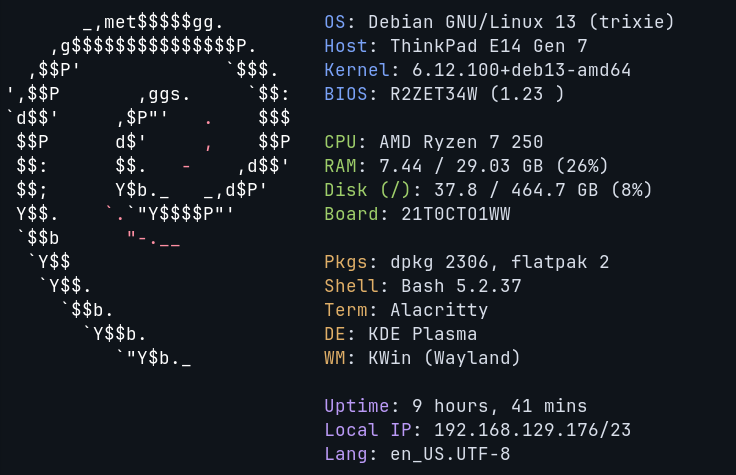
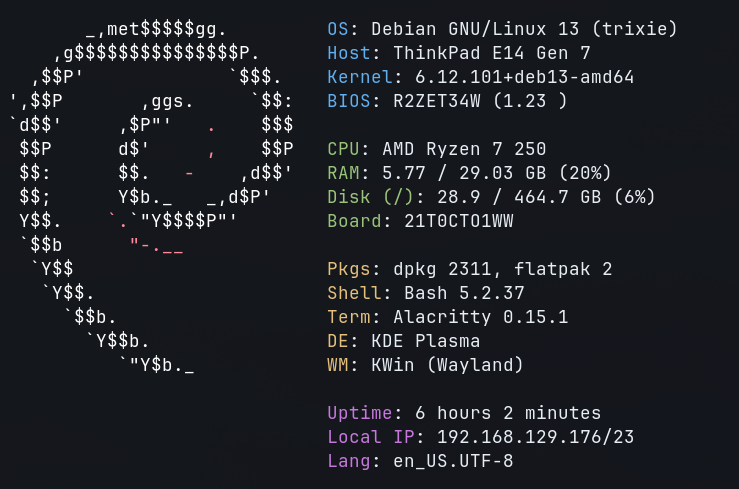
Improved terminal module and small changes

diff --git a/internal/modules/terminal.go b/internal/modules/terminal.go
@@ -2,6 +2,7 @@ package modules
 
 import (
 	"os"
+	"strconv"
 	"strings"
 )
 
@@ -15,6 +16,79 @@ var detectors = []terminalDetector{
 	{"GNOME_TERMINAL_SCREEN", "GNOME Terminal"},
 	{"KITTY_PID", "Kitty"},
 	{"GHOSTTY_RESOURCES_DIR", "Ghostty"},
+	{"KONSOLE_VERSION", "Konsole"},
+	{"TILIX_ID", "Tilix"},
+	{"TERMINATOR_UUID", "Terminator"},
+}
+
+func processName(pid int) string {
+	data, err := os.ReadFile("/proc/" + strconv.Itoa(pid) + "/comm")
+	if err != nil {
+		return ""
+	}
+
+	return strings.TrimSpace(string(data))
+}
+
+func parentPID(pid int) int {
+	data, err := os.ReadFile("/proc/" + strconv.Itoa(pid) + "/stat")
+	if err != nil {
+		return 0
+	}
+
+	line := string(data)
+
+	end := strings.LastIndex(line, ")")
+	if end == -1 || end+2 >= len(line) {
+		return 0
+	}
+
+	fields := strings.Fields(line[end+2:])
+	if len(fields) < 2 {
+		return 0
+	}
+
+	ppid, err := strconv.Atoi(fields[1])
+	if err != nil {
+		return 0
+	}
+
+	return ppid
+}
+
+func processInParentChain(names ...string) string {
+	wanted := make(map[string]struct{}, len(names))
+
+	for _, name := range names {
+		wanted[name] = struct{}{}
+	}
+
+	pid := os.Getpid()
+
+	seen := make(map[int]struct{})
+
+	for pid > 1 {
+		if _, ok := seen[pid]; ok {
+			break
+		}
+
+		seen[pid] = struct{}{}
+
+		proc := processName(pid)
+
+		if _, ok := wanted[proc]; ok {
+			return proc
+		}
+
+		next := parentPID(pid)
+		if next <= 0 || next == pid {
+			break
+		}
+
+		pid = next
+	}
+
+	return ""
 }
 
 func Terminal() string {
@@ -24,35 +98,122 @@ func Terminal() string {
 		}
 	}
 
-	if os.Getenv("KONSOLE_VERSION") != "" {
-		return "Konsole"
-	}
-
 	switch strings.ToLower(strings.TrimSpace(os.Getenv("TERM_PROGRAM"))) {
-	case "":
 	case "vscode":
 		return "Code"
+
 	case "wezterm":
 		return "WezTerm"
+
 	case "ghostty":
 		return "Ghostty"
-	default:
-		return os.Getenv("TERM_PROGRAM")
+
+	case "hyper":
+		return "Hyper"
+
+	case "tabby":
+		return "Tabby"
+
+	case "rio":
+		return "Rio"
+
+	case "iterm.app":
+		return "iTerm2"
+
+	case "apple_terminal":
+		return "Terminal"
+
+	case "warpterminal":
+		return "Warp"
 	}
 
-	term := os.Getenv("TERM")
+	if proc := processInParentChain(
+		"gnome-terminal-server",
+		"konsole",
+		"xfce4-terminal",
+		"mate-terminal",
+		"lxterminal",
+		"tilix",
+		"terminator",
+		"ptyxis",
+		"kgx",
+		"deepin-terminal",
+		"yakuake",
+		"cool-retro-term",
+		"termite",
+		"st",
+		"qterminal",
+		"urxvt",
+		"rxvt",
+		"xterm",
+		"foot",
+		"alacritty",
+		"kitty",
+		"ghostty",
+		"wezterm-gui",
+		"rio",
+	); proc != "" {
+		switch proc {
+		case "gnome-terminal-server":
+			return "GNOME Terminal"
 
-	if strings.HasPrefix(term, "foot") {
+		case "xfce4-terminal":
+			return "Xfce Terminal"
+
+		case "mate-terminal":
+			return "MATE Terminal"
+
+		case "lxterminal":
+			return "LXTerminal"
+
+		case "ptyxis":
+			return "Ptyxis"
+
+		case "kgx":
+			return "GNOME Console"
+
+		case "deepin-terminal":
+			return "Deepin Terminal"
+
+		case "qterminal":
+			return "QTerminal"
+
+		case "urxvt", "rxvt":
+			return "rxvt"
+
+		case "st":
+			return "st"
+
+		case "wezterm-gui":
+			return "WezTerm"
+
+		default:
+			return proc
+		}
+	}
+
+	term := strings.TrimSpace(os.Getenv("TERM"))
+
+	switch {
+	case strings.HasPrefix(term, "foot"):
 		return "Foot"
-	}
 
-	if term == "xterm" {
+	case strings.HasPrefix(term, "xterm"):
 		return "XTerm"
-	}
 
-	if term == "" {
+	case strings.HasPrefix(term, "rxvt"):
+		return "rxvt"
+
+	case strings.HasPrefix(term, "screen"):
+		return "Screen"
+
+	case strings.HasPrefix(term, "tmux"):
+		return "tmux"
+
+	case term == "":
 		return "unknown"
-	}
 
-	return term
+	default:
+		return term
+	}
 }

diff --git a/internal/cmd/parseflags.go b/internal/cmd/parseflags.go
@@ -1,6 +1,9 @@
 package cmd
 
 import (
+	"fmt"
+	"os"
+
 	flag "github.com/spf13/pflag"
 )
 
@@ -30,4 +33,36 @@ func ParseFlags() Flags {
 	}
 
 	return flags
+}
+
+func ListAllModules() {
+	fmt.Print(`
+| Module        | Description                           |
+| --------------| --------------------------------------|
+| userinfo      | Username and hostname                 |
+| os            | Operating system                      |
+| kernel        | Current kernel                        |
+| cpu           | Processor information                 |
+| memory        | Memory usage                          |
+| swap          | Swap usage                            |
+| local_ip      | Local IP address                      |
+| locale        | Systems locale settings               |
+| uptime        | System uptime                         |
+| battery       | Battery information                   |
+| bios          | BIOS information                      |
+| de            | Desktop environment                   |
+| wm            | Window manager                        |
+| shell         | Current shell                         |
+| terminal      | Current terminal                      |
+| disk          | Disk usage                            |
+| time          | Current time                          |
+| date          | Current date                          |
+| packages      | Installed packages                    |
+| host          | Device model                          |
+| board         | Motherboard name                      |
+| emptyline     | Inserts a blank line                  |
+| text          | Custom text                           |
+
+`)
+	os.Exit(0)
 }

diff --git a/internal/modules/wm.go b/internal/modules/wm.go
@@ -96,7 +96,6 @@ func WMOnX11() string {
 		"fluxbox",
 		"icewm",
 		"dwm",
-		"muffin",
 	) {
 	case "kwin_x11":
 		return "KWin"
@@ -118,8 +117,6 @@ func WMOnX11() string {
 		return "IceWM"
 	case "dwm":
 		return "dwm"
-	case "muffin":
-		return "Muffin"
 	}
 
 	return "unknown"

diff --git a/internal/modules/systeminfo.go b/internal/modules/systeminfo.go
@@ -11,9 +11,7 @@ type ModuleOutput struct {
 	Color     string
 	Separator string
 	Value     string
-
-	// Disk only
-	Mount string
+	Mount     string
 }
 
 func CollectSystemInfo(modules []config.Module, distroName string, NoColor bool) []ModuleOutput {

diff --git a/README.md b/README.md
@@ -1,9 +1,8 @@
 # Dfetch
 
-A lightweight very fast command-line tool for displaying system information. It focuses on clean output, actually usefull info, and simple configuration.
+A lightweight command-line tool for displaying system information. It focuses on clean output, actually usefull info, and simple configuration.
 
 ![Default output on Debian](image/debian_dfetch_output.png)
-
 
 ## Installation
 
@@ -11,7 +10,7 @@ Visit the [releases page](https://github.com/David17c/Dfetch/releases) and downl
 
 ## Support
 
-Dfetch pretty much all decently modern Linux distrobutions and includes ascii art for the following:
+Dfetch supports pretty much all somewhat modern Linux distrobutions and includes ascii art for the following:
 
 **Alma Linux, Arch, Artix, Bazzite, CachyOS, CentOS, Debian, EndeavourOS, Fedora, Gentoo, Kali Linux, Linux Mint, Manjaro, NixOS, OpenSUSE Leap, OpenSUSE Tumbleweed, Pop!_OS, Rhel, Rocky Linux, Tuxedo OS, Ubuntu, Vanilla OS, Void Linux and Zorin OS.**
 
@@ -22,11 +21,3 @@ If your distribution isn't listed, Dfetch probably still works. This list only i
 [Customization](documentation/CUSTOMIZATION.md)  
 [Installation Instructions](documentation/INSTALL.md)  
 [Command-line flags](documentation/FLAGS.md)  
-
-<br>
-
-![GitHub commit activity](https://img.shields.io/github/commit-activity/m/David17c/dfetch)
-![GitHub top language](https://img.shields.io/github/languages/top/david17c/dfetch)
-![GitHub go.mod Go version (branch)](https://img.shields.io/github/go-mod/go-version/David17c/dfetch/main)
-![GitHub Downloads (all assets, all releases)](https://img.shields.io/github/downloads/david17c/dfetch/total)
-

diff --git a/documentation/INSTALL.md b/documentation/INSTALL.md
@@ -1,11 +1,9 @@
 # Installation
 
-This guide covers installation instructions for the base operating systems that most supported Linux distributions are derived from. If you're using a derivative distribution, you can usually follow the instructions for its corresponding base distribution.
-
 * [Debian-based distributions](#debian)
 * [Fedora-based distributions](#fedora)
 * [Arch-based distributions](#arch)
-* [NixOS](#nixos)
+* [Nix](#nix)
 * [Build from source](#build-from-source)
 
 ## Debian
@@ -27,7 +25,7 @@ Dfetch does not currently provide a prebuilt package for Arch or Arch-based dist
 * Download the prebuilt binary from the [Releases page](https://github.com/David17c/Dfetch/releases), or
 * Build Dfetch from source by following the [build instructions](#build-from-source).
 
-## NixOS
+## Nix
 
 ### Install with Flakes
 

diff --git a/documentation/FLAGS.md b/documentation/FLAGS.md
@@ -1,6 +1,6 @@
 # Command-line flags
 
-With Dfetch installed you can get a list of flags using the `--help` flag.
+`--help` List flags
 
 `--list-all-modules` Print a list of all modules
 
@@ -13,7 +13,3 @@ With Dfetch installed you can get a list of flags using the `--help` flag.
 `--set-config "path"` Specify config file to use
 
 `--reset-config` Regenerate the default config
-
-`--help` List flags
-
-More flags will be added over time.
